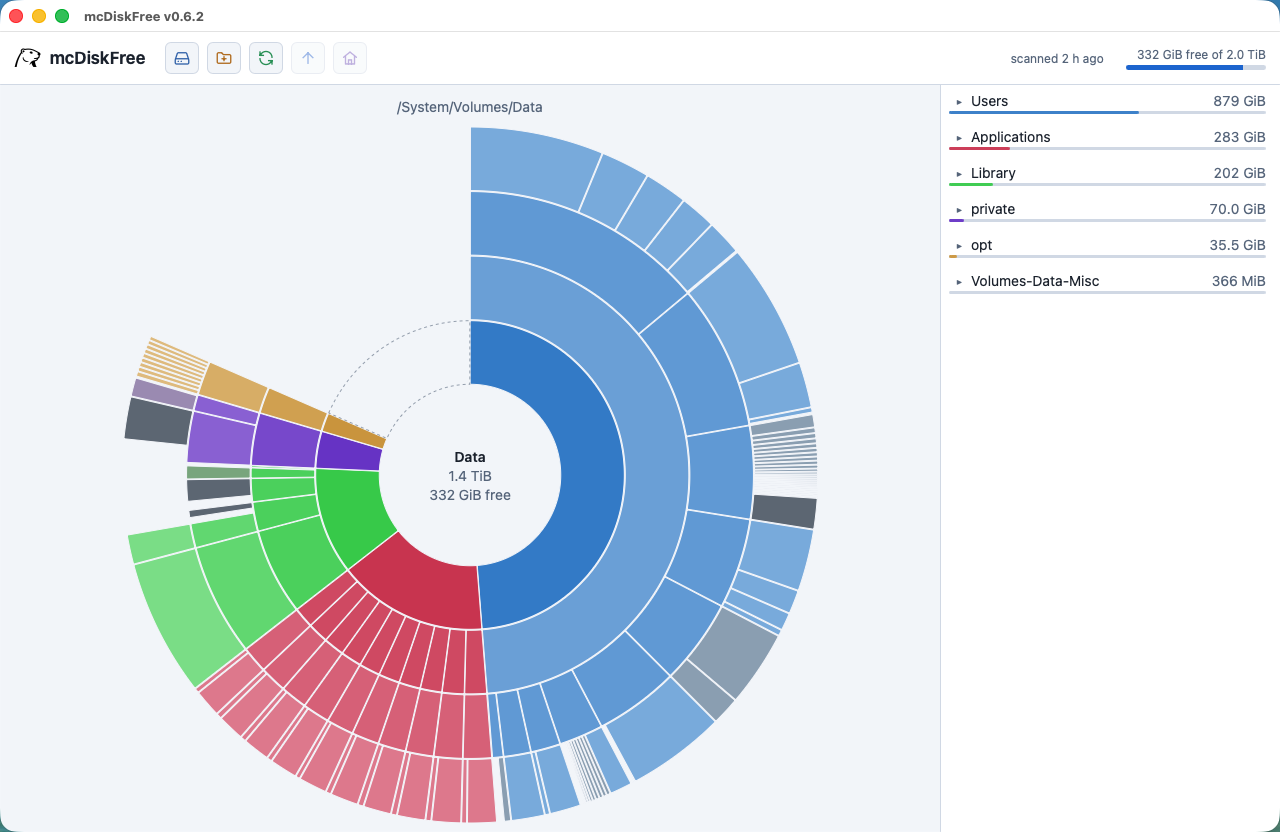
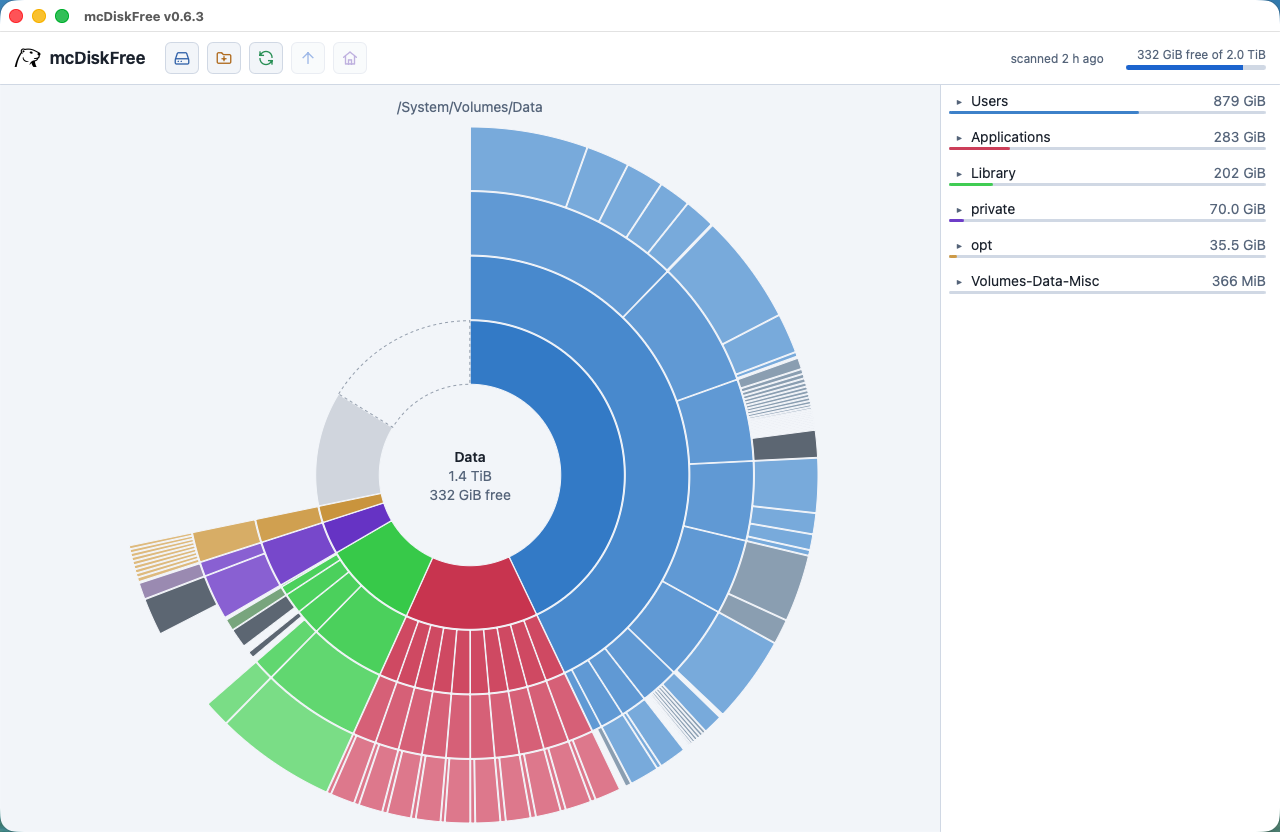
0.6.3: disclaimer, "Not scanned" slice, Full Disk Access link (#11)
- README and About window: disclaimer of warranty and liability, plus a plain
  statement of what the MIT license allows.
- Whole-disk chart: a faded "Not scanned" slice for used space outside the
  scan (other volumes, unreadable folders, purgeable space), so the circle
  adds up to the disk and the free-space share is a share of the disk. Its
  tooltip says why; on macOS a click opens the Full Disk Access settings.
- Screenshots retaken from the 0.6.3 macOS mock, new 07-not-scanned.

Changed region(s): [[0.0938, 0.3125, 0.6562, 1.0], [0.4375, 0.1875, 0.5312, 0.3125], [0.5312, 0.3125, 0.5625, 0.3438]]

diff --git a/frontend/src/main.js b/frontend/src/main.js
@@ -11,7 +11,9 @@ const DEPTH = 4;
 // What each file manager calls "show this file in its folder"; on Linux the helper opens the containing folder.
 const REVEAL = {darwin: 'Show in Finder', windows: 'Show in Explorer', linux: 'Open containing folder'};
 let revealLabel = 'Show in folder';
-Platform().then((p) => { revealLabel = REVEAL[p] || revealLabel; });
+let onMac = false;
+Platform().then((p) => { revealLabel = REVEAL[p] || revealLabel; onMac = p === 'darwin'; });
+const FULL_DISK_ACCESS = 'x-apple.systempreferences:com.apple.preference.security?Privacy_AllFiles';
 
 let scanRoot = '';    // folder that was scanned
 let current = null;   // node shown now
@@ -101,12 +103,20 @@ function render(node, anim) {
     SaveSession(scanRoot, node.path);   // so the next start can open the same view
 }
 
-// At the top of a whole-disk scan the chart also shows the free space as a dashed slice.
+// At the top of a whole-disk scan the chart also shows the free space as a dashed slice, and the used space the scan
+// did not see (other volumes of the container, folders it may not read, purgeable space) as a faded one, so that the
+// whole circle is the disk and every share is a share of the disk.
 function withFree(node) {
     const wholeDisk = node.path === scanRoot && volumes.some((v) => v.path === scanRoot);
     if (!wholeDisk || !usage || !usage.free) return node;
-    const free = {name: 'Free space', path: '', isDir: false, free: true, size: usage.free, items: 0};
-    return {...node, size: node.size + usage.free, children: [...(node.children || []), free]};
+    const extra = [];
+    const unseen = usage.total - usage.free - node.size;
+    if (unseen > 0) {
+        extra.push({name: 'Not scanned', path: '', isDir: false, unscanned: true, size: unseen, items: 0,
+            note: 'Why: this space is used, but outside the scanned volume. It is other volumes of the same disk (system, VM, recovery), folders macOS did not let the scan read (Full Disk Access), and purgeable space or snapshots.'});
+    }
+    extra.push({name: 'Free space', path: '', isDir: false, free: true, size: usage.free, items: 0});
+    return {...node, size: node.size + extra.reduce((n, e) => n + e.size, 0), children: [...(node.children || []), ...extra]};
 }
 
 function drawChart(node, anim) {
@@ -131,7 +141,7 @@ function drawChart(node, anim) {
     // One group per ring, so the rings can move one after the other.
     const rings = Array.from({length: DEPTH}, () => '');
     arcs.forEach((d, i) => {
-        const cls = d.data.free ? 'free' : d.data.isDir ? 'dir' : d.data.path ? 'file' : 'rest';
+        const cls = d.data.free ? 'free' : d.data.unscanned ? 'unscanned' : d.data.isDir ? 'dir' : d.data.path ? 'file' : 'rest';
         const gone = basket.has(d.data.path) ? ' style="opacity:.35"' : '';
         rings[d.depth - 1] += `<path data-i="${i}" class="${cls}" d="${gen(d)}" fill="${colour(d, topHue(d, tops))}"${gone}/>`;
     });
@@ -147,7 +157,8 @@ function drawChart(node, anim) {
         const p = e.target.closest('path');
         if (!p) return;
         const d = arcs[+p.dataset.i].data;
-        if (e.shiftKey && d.path) toggleBasket(d);
+        if (d.unscanned) { if (onMac) BrowserOpenURL(FULL_DISK_ACCESS); }
+        else if (e.shiftKey && d.path) toggleBasket(d);
         else if (d.isDir) open(d.path);
     };
     svg.oncontextmenu = (e) => { e.preventDefault(); goUp(); };
@@ -358,7 +369,7 @@ function showTip(e, n, total) {
     const t = $('tip');
     t.hidden = false;
     t.innerHTML = `<div><b>${esc(n.name)}</b></div><div>${bytes(n.size)} · ${total ? ((n.size / total) * 100).toFixed(1) : 0}%` +
-        (n.isDir ? ` · ${n.items.toLocaleString()} files` : '') + `</div>` + (n.path ? `<div class="p">${esc(n.path)}</div>` : '') +
+        (n.isDir ? ` · ${n.items.toLocaleString()} files` : '') + `</div>` + (n.path ? `<div class="p">${esc(n.path)}</div>` : '') + (n.note ? `<div class="p">${esc(n.note)}</div>` : '') + (n.unscanned && onMac ? '<div class="p">click: open Full Disk Access settings</div>' : '') +
         (n.path ? '<div class="p">shift-click: add to basket</div>' : '');
     t.style.left = Math.min(e.clientX + 14, innerWidth - 380) + 'px';
     t.style.top = Math.min(e.clientY + 14, innerHeight - 110) + 'px';
@@ -492,8 +503,13 @@ async function showAbout() {
         <h1>mcDiskFree</h1>
         <p class="muted">Version ${esc(await Version())}</p>
         <p>See what is eating your disk: a disk space analyzer with an interactive sunburst chart, for macOS, Windows and Linux.</p>
-        <p class="muted">Free and open source, MIT license. No accounts, no ads, no telemetry.</p>
-        <p class="links"><a href="${REPO}">Website and source code</a><a href="${REPO}/issues">Report a problem</a><a href="${REPO}/blob/main/LICENSE">License</a><a class="coffee" href="https://mormitech.com/support-us/">${COFFEE}Buy me a coffee</a></p>`;
+        <p class="muted">Free and open source under the MIT license: use, modify, distribute and sell it, privately or commercially. No accounts, no ads, no telemetry.</p>
+        <p class="links"><a href="${REPO}">Website and source code</a><a href="${REPO}/issues">Report a problem</a><a href="${REPO}/blob/main/LICENSE">License</a><a class="coffee" href="https://mormitech.com/support-us/">${COFFEE}Buy me a coffee</a></p>
+        <details class="disclaimer"><summary>Disclaimer</summary>
+        <p>mcDiskFree is free software provided by Mormitech "as is" and "as available", without warranty of any kind, express or implied, including warranties of merchantability, fitness for a particular purpose, accuracy and non-infringement.</p>
+        <p>You use it at your own risk. You are responsible for your data and for keeping current backups. Review everything in the basket before you move it to the Trash. Scan results and sizes may be incomplete or differ from what your system reports.</p>
+        <p>To the maximum extent permitted by applicable law, Mormitech and the contributors exclude all liability for any loss or damage arising out of or in connection with the software or its use, including data loss, corruption, system instability or any other direct, indirect, incidental or consequential side effect, even if advised of the possibility of such damage. Nothing here excludes liability that cannot be excluded by law.</p>
+        <p>This notice supplements the MIT license, whose terms apply in full.</p></details>`;
 }
 
 document.addEventListener('click', (ev) => {

diff --git a/frontend/src/style.css b/frontend/src/style.css
@@ -55,6 +55,7 @@ aside { width: 340px; border-left: 1px solid var(--line); background: var(--pane
 #cache { margin-left: auto; color: var(--muted); font-size: 12px; white-space: nowrap; }
 #space { margin-left: 14px; color: var(--muted); font-size: 12px; white-space: nowrap; text-align: right; }
 #space .meter { width: 140px; margin: 3px 0 0 auto; height: 5px; }
+#sun path.unscanned { pointer-events: all; fill: var(--muted); opacity: .22; cursor: pointer; }
 #sun path.free { pointer-events: all; fill: none; stroke: var(--muted); stroke-dasharray: 3 3; cursor: default; opacity: .6; }
 #basket { border-top: 1px solid var(--line); padding: 10px 14px; max-height: 45%; overflow-y: auto; }
 #basket .h { display: flex; justify-content: space-between; align-items: center; margin-bottom: 6px; font-weight: 600; }
@@ -101,6 +102,9 @@ body.about-mode { display: block; overflow: auto; } body.about-mode header, body
 #about a { color: var(--accent); text-decoration: none; cursor: pointer; } #about a:hover { text-decoration: underline; }
 #about a.coffee { display: inline-flex; align-items: center; justify-content: center; gap: 6px; }
 #about a.coffee svg { width: 18px; height: 18px; fill: none; stroke: currentColor; stroke-width: 1.7; stroke-linecap: round; stroke-linejoin: round; }
+#about details.disclaimer { margin-top: 14px; max-width: 360px; text-align: left; }
+#about details.disclaimer summary { text-align: center; color: var(--muted); font-size: 12px; cursor: pointer; }
+#about details.disclaimer p { max-width: none; font-size: 11.5px; color: var(--muted); }
 @media (prefers-color-scheme: dark) { #about .logo { filter: invert(1); } }
 
 /* the name in the header */

diff --git a/main.go b/main.go
@@ -67,7 +67,7 @@ func main() {
 	title, width, height := "mcDiskFree v"+version(), windowW, windowH
 	var menuBar *menu.Menu
 	if about {
-		app.mode, title, width, height = "about", "About mcDiskFree", 440, 520
+		app.mode, title, width, height = "about", "About mcDiskFree", 440, 600
 	} else { // the About window has no menu of its own
 		menuBar = appMenu(app)
 	}

diff --git a/README.md b/README.md
@@ -146,6 +146,29 @@ The version lives in one place, `wails.json`.
 
 Changes to `main` go through a pull request. A release is cut by pushing a `v*` tag that matches the version in `wails.json`.
 
+## Disclaimer
+
+mcDiskFree is free software, provided by Mormitech **"as is" and "as available"**, without warranty of any kind, express
+or implied, including but not limited to warranties of merchantability, fitness for a particular purpose, accuracy and
+non-infringement.
+
+By installing or using mcDiskFree you acknowledge and agree that:
+
+- **Your data is your responsibility.** The app can move files and folders to the Trash or Recycle Bin. You decide what
+  is selected and removed. Keep current backups of everything you care about, and review the basket before you confirm.
+- **Results may be incomplete or inaccurate.** Sizes, free space and scan results can differ from what your operating
+  system reports (for example because of permissions, purgeable space, snapshots, clones, hard links or files that
+  change during a scan). Do not rely on them as the only basis for decisions.
+- **No liability.** To the maximum extent permitted by applicable law, Mormitech and the contributors to this project
+  exclude all liability for any loss or damage of any kind arising out of or in connection with the software or its use,
+  including data loss, corruption, system instability, downtime, loss of profit or any direct, indirect, incidental,
+  special, consequential or other side effect, even if advised of the possibility of such damage.
+- **Use at your own risk.** Nothing here excludes or limits liability that cannot be excluded or limited by law.
+
+This notice supplements the [MIT license](LICENSE), whose warranty disclaimer and limitation of liability apply in full.
+
 ## License
 
-[MIT](LICENSE): use it, change it, ship it, forever.
+[MIT](LICENSE): use it, copy it, change it, distribute it, even sell it, for personal, commercial and corporate use,
+free of charge. The only condition is that the copyright and license notice stay with the software. In return, the
+software comes without any warranty and the authors are not liable for anything (see the Disclaimer above).
